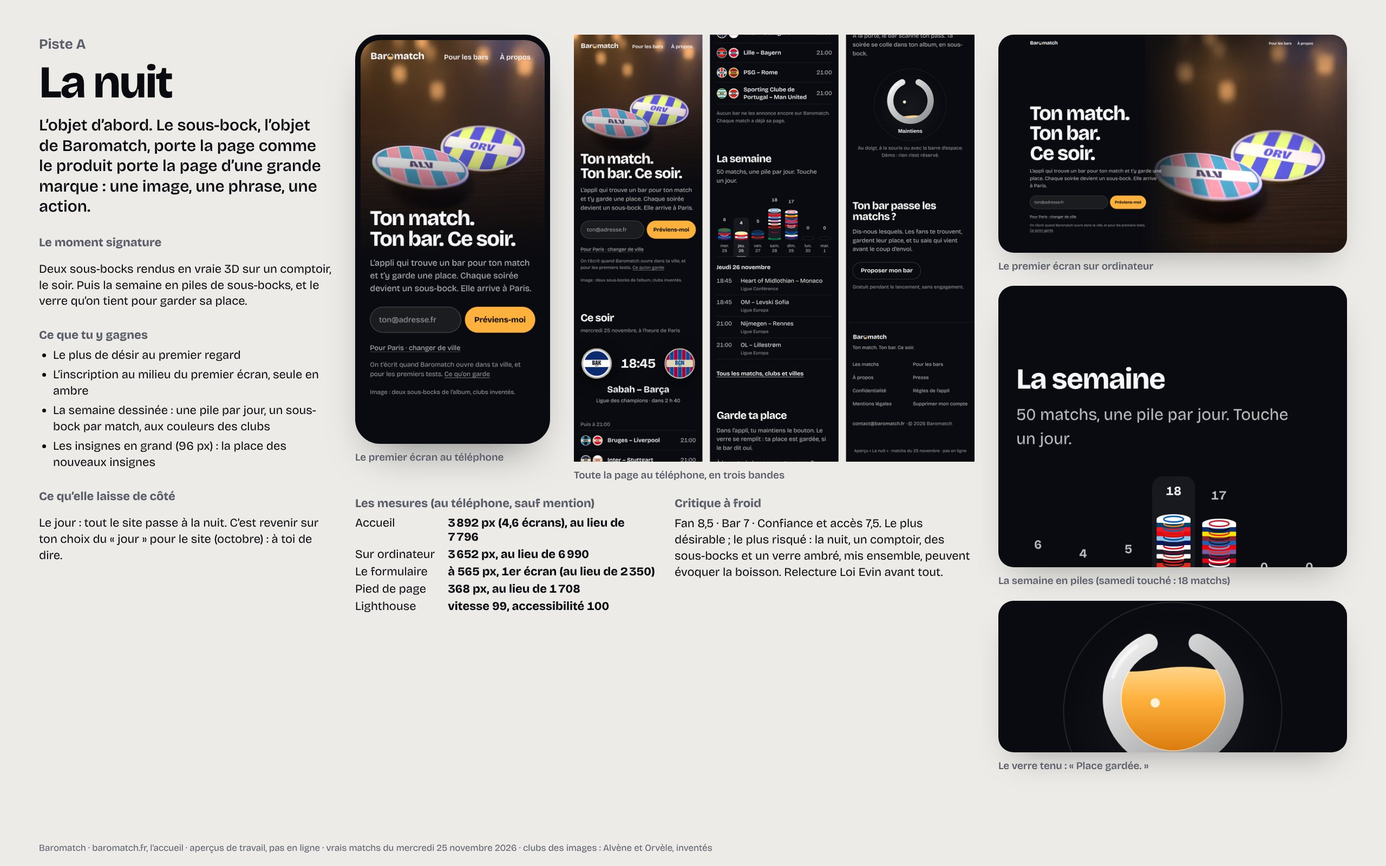
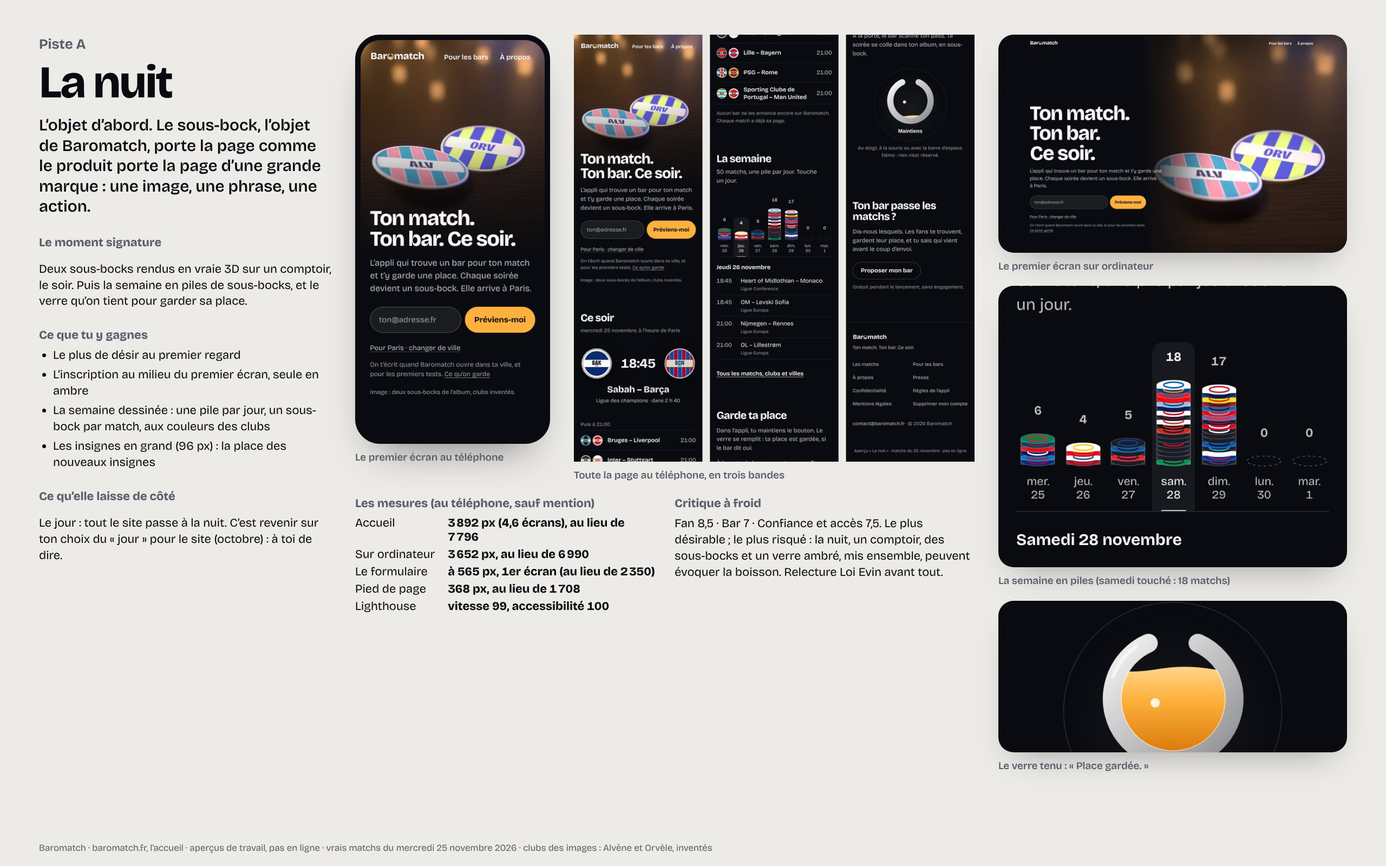
Piste A : chaque sous-bock des piles cerné d'un filet clair (un club sans fiche ne disparaît plus dans la nuit)
La critique à froid des planches a trouvé des couches invisibles dans les piles du samedi : les clubs sans fiche
d'insigne sont à l'encre neutre, presque la couleur de la nuit. Un filet clair à 30 % les rend lisibles ; planche A
refaite.

Vérifié : node preview/outils/construire.mjs -> 3 pages écrites ; capture de la semaine (samedi touché) relue : 18 couches visibles sur 18

Claude-Session: https://claude.ai/code/session_01Ha4274JW7Gvb4djWPyjchQ

Changed region(s): [[0.7188, 0.4062, 0.9375, 0.6562], [0.75, 0.3438, 0.7812, 0.375]]

diff --git a/preview/a-la-nuit/index.html b/preview/a-la-nuit/index.html
@@ -52,7 +52,7 @@
 <h2 class="titre-2" id="titre-semaine">La semaine</h2>
 <p class="chapo chapo--court">50 matchs, une pile par jour. Touche un jour.</p>
 <div class="semaine__choix"><input class="visuellement-cache" type="radio" name="jour" id="a-j0" value="2026-11-25"><input class="visuellement-cache" type="radio" name="jour" id="a-j1" value="2026-11-26" checked><input class="visuellement-cache" type="radio" name="jour" id="a-j2" value="2026-11-27"><input class="visuellement-cache" type="radio" name="jour" id="a-j3" value="2026-11-28"><input class="visuellement-cache" type="radio" name="jour" id="a-j4" value="2026-11-29"><input class="visuellement-cache" type="radio" name="jour" id="a-j5" value="2026-11-30"><input class="visuellement-cache" type="radio" name="jour" id="a-j6" value="2026-12-01">
-<div class="piles" role="presentation"><label class="pile" for="a-j0"><span class="pile__compte">6</span><svg class="pile__tas" width="44" height="50" viewBox="0 0 44 50" aria-hidden="true" focusable="false"><rect x="3" y="40" width="38" height="4" rx="1" fill="#0B2A6F"/><ellipse cx="22" cy="40" rx="19" ry="5.5" fill="#0B2A6F"/><ellipse cx="22" cy="40" rx="11" ry="3.2" fill="none" stroke="#A50044" stroke-width="1.6"/><rect x="3" y="35" width="38" height="4" rx="1" fill="#0078BF"/><ellipse cx="22" cy="35" rx="19" ry="5.5" fill="#0078BF"/><ellipse cx="22" cy="35" rx="11" ry="3.2" fill="none" stroke="#C8102E" stroke-width="1.6"/><rect x="3" y="30" width="38" height="4" rx="1" fill="#0B1560"/><ellipse cx="22" cy="30" rx="19" ry="5.5" fill="#0B1560"/><ellipse cx="22" cy="30" rx="11" ry="3.2" fill="none" stroke="#FFFFFF" stroke-width="1.6"/><rect x="3" y="25" width="38" height="4" rx="1" fill="#E01E13"/><ellipse cx="22" cy="25" rx="19" ry="5.5" fill="#E01E13"/><ellipse cx="22" cy="25" rx="11" ry="3.2" fill="none" stroke="#DC052D" stroke-width="1.6"/><rect x="3" y="20" width="38" height="4" rx="1" fill="#004170"/><ellipse cx="22" cy="20" rx="19" ry="5.5" fill="#004170"/><ellipse cx="22" cy="20" rx="11" ry="3.2" fill="none" stroke="#8E1F2F" stroke-width="1.6"/><rect x="3" y="15" width="38" height="4" rx="1" fill="#008057"/><ellipse cx="22" cy="15" rx="19" ry="5.5" fill="#008057"/><ellipse cx="22" cy="15" rx="11" ry="3.2" fill="none" stroke="#DA291C" stroke-width="1.6"/></svg><span class="pile__jour"><span>mer.</span> <span>25</span></span><span class="visuellement-cache">, 6 matchs</span></label><label class="pile" for="a-j1"><span class="pile__compte">4</span><svg class="pile__tas" width="44" height="40" viewBox="0 0 44 40" aria-hidden="true" focusable="false"><rect x="3" y="30" width="38" height="4" rx="1" fill="#8E1B32"/><ellipse cx="22" cy="30" rx="19" ry="5.5" fill="#8E1B32"/><ellipse cx="22" cy="30" rx="11" ry="3.2" fill="none" stroke="#CE1126" stroke-width="1.6"/><rect x="3" y="25" width="38" height="4" rx="1" fill="#FFFFFF"/><ellipse cx="22" cy="25" rx="19" ry="5.5" fill="#FFFFFF"/><ellipse cx="22" cy="25" rx="11" ry="3.2" fill="none" stroke="#005BAC" stroke-width="1.6"/><rect x="3" y="20" width="38" height="4" rx="1" fill="#E30613"/><ellipse cx="22" cy="20" rx="19" ry="5.5" fill="#E30613"/><ellipse cx="22" cy="20" rx="11" ry="3.2" fill="none" stroke="#E13327" stroke-width="1.6"/><rect x="3" y="15" width="38" height="4" rx="1" fill="#FFFFFF"/><ellipse cx="22" cy="15" rx="19" ry="5.5" fill="#FFFFFF"/><ellipse cx="22" cy="15" rx="11" ry="3.2" fill="none" stroke="#FFD400" stroke-width="1.6"/></svg><span class="pile__jour"><span>jeu.</span> <span>26</span></span><span class="visuellement-cache">, 4 matchs</span></label><label class="pile" for="a-j2"><span class="pile__compte">5</span><svg class="pile__tas" width="44" height="45" viewBox="0 0 44 45" aria-hidden="true" focusable="false"><rect x="3" y="35" width="38" height="4" rx="1" fill="#1B1D27"/><ellipse cx="22" cy="35" rx="19" ry="5.5" fill="#1B1D27"/><ellipse cx="22" cy="35" rx="11" ry="3.2" fill="none" stroke="#1B1D27" stroke-width="1.6"/><rect x="3" y="30" width="38" height="4" rx="1" fill="#ED1C24"/><ellipse cx="22" cy="30" rx="19" ry="5.5" fill="#ED1C24"/><ellipse cx="22" cy="30" rx="11" ry="3.2" fill="none" stroke="#0C183F" stroke-width="1.6"/><rect x="3" y="25" width="38" height="4" rx="1" fill="#1B1D27"/><ellipse cx="22" cy="25" rx="19" ry="5.5" fill="#1B1D27"/><ellipse cx="22" cy="25" rx="11" ry="3.2" fill="none" stroke="#1B1D27" stroke-width="1.6"/><rect x="3" y="20" width="38" height="4" rx="1" fill="#005CA5"/><ellipse cx="22" cy="20" rx="19" ry="5.5" fill="#005CA5"/><ellipse cx="22" cy="20" rx="11" ry="3.2" fill="none" stroke="#1B1D27" stroke-width="1.6"/><rect x="3" y="15" width="38" height="4" rx="1" fill="#1B1D27"/><ellipse cx="22" cy="15" rx="19" ry="5.5" fill="#1B1D27"/><ellipse cx="22" cy="15" rx="11" ry="3.2" fill="none" stroke="#034694" stroke-width="1.6"/></svg><span class="pile__jour"><span>ven.</span> <span>27</span></span><span class="visuellement-cache">, 5 matchs</span></label><label class="pile" for="a-j3"><span class="pile__compte">18</span><svg class="pile__tas" width="44" height="110" viewBox="0 0 44 110" aria-hidden="true" focusable="false"><rect x="3" y="100" width="38" height="4" rx="1" fill="#00954C"/><ellipse cx="22" cy="100" rx="19" ry="5.5" fill="#00954C"/><ellipse cx="22" cy="100" rx="11" ry="3.2" fill="none" stroke="#1B1D27" stroke-width="1.6"/><rect x="3" y="95" width="38" height="4" rx="1" fill="#1B1D27"/><ellipse cx="22" cy="95" rx="19" ry="5.5" fill="#1B1D27"/><ellipse cx="22" cy="95" rx="11" ry="3.2" fill="none" stroke="#1B1D27" stroke-width="1.6"/><rect x="3" y="90" width="38" height="4" rx="1" fill="#1B1D27"/><ellipse cx="22" cy="90" rx="19" ry="5.5" fill="#1B1D27"/><ellipse cx="22" cy="90" rx="11" ry="3.2" fill="none" stroke="#1B1D27" stroke-width="1.6"/><rect x="3" y="85" width="38" height="4" rx="1" fill="#1B1D27"/><ellipse cx="22" cy="85" rx="19" ry="5.5" fill="#1B1D27"/><ellipse cx="22" cy="85" rx="11" ry="3.2" fill="none" stroke="#1B1D27" stroke-width="1.6"/><rect x="3" y="80" width="38" height="4" rx="1" fill="#1B1D27"/><ellipse cx="22" cy="80" rx="19" ry="5.5" fill="#1B1D27"/><ellipse cx="22" cy="80" rx="11" ry="3.2" fill="none" stroke="#DC052D" stroke-width="1.6"/><rect x="3" y="75" width="38" height="4" rx="1" fill="#1B1D27"/><ellipse cx="22" cy="75" rx="19" ry="5.5" fill="#1B1D27"/><ellipse cx="22" cy="75" rx="11" ry="3.2" fill="none" stroke="#1B1D27" stroke-width="1.6"/><rect x="3" y="70" width="38" height="4" rx="1" fill="#1B1D27"/><ellipse cx="22" cy="70" rx="19" ry="5.5" fill="#1B1D27"/><ellipse cx="22" cy="70" rx="11" ry="3.2" fill="none" stroke="#1B1D27" stroke-width="1.6"/><rect x="3" y="65" width="38" height="4" rx="1" fill="#DA291C"/><ellipse cx="22" cy="65" rx="19" ry="5.5" fill="#DA291C"/><ellipse cx="22" cy="65" rx="11" ry="3.2" fill="none" stroke="#1B1D27" stroke-width="1.6"/><rect x="3" y="60" width="38" height="4" rx="1" fill="#111111"/><ellipse cx="22" cy="60" rx="19" ry="5.5" fill="#111111"/><ellipse cx="22" cy="60" rx="11" ry="3.2" fill="none" stroke="#ED1C24" stroke-width="1.6"/><rect x="3" y="55" width="38" height="4" rx="1" fill="#FFFFFF"/><ellipse cx="22" cy="55" rx="19" ry="5.5" fill="#FFFFFF"/><ellipse cx="22" cy="55" rx="11" ry="3.2" fill="none" stroke="#CB3524" stroke-width="1.6"/><rect x="3" y="50" width="38" height="4" rx="1" fill="#1B1D27"/><ellipse cx="22" cy="50" rx="19" ry="5.5" fill="#1B1D27"/><ellipse cx="22" cy="50" rx="11" ry="3.2" fill="none" stroke="#670E36" stroke-width="1.6"/><rect x="3" y="45" width="38" height="4" rx="1" fill="#FFFFFF"/><ellipse cx="22" cy="45" rx="19" ry="5.5" fill="#FFFFFF"/><ellipse cx="22" cy="45" rx="11" ry="3.2" fill="none" stroke="#E1000F" stroke-width="1.6"/><rect x="3" y="40" width="38" height="4" rx="1" fill="#0B1560"/><ellipse cx="22" cy="40" rx="19" ry="5.5" fill="#0B1560"/><ellipse cx="22" cy="40" rx="11" ry="3.2" fill="none" stroke="#1B1D27" stroke-width="1.6"/><rect x="3" y="35" width="38" height="4" rx="1" fill="#8BC4E5"/><ellipse cx="22" cy="35" rx="19" ry="5.5" fill="#8BC4E5"/><ellipse cx="22" cy="35" rx="11" ry="3.2" fill="none" stroke="#004996" stroke-width="1.6"/><rect x="3" y="30" width="38" height="4" rx="1" fill="#E30613"/><ellipse cx="22" cy="30" rx="19" ry="5.5" fill="#E30613"/><ellipse cx="22" cy="30" rx="11" ry="3.2" fill="none" stroke="#E01E13" stroke-width="1.6"/><rect x="3" y="25" width="38" height="4" rx="1" fill="#ED1C24"/><ellipse cx="22" cy="25" rx="19" ry="5.5" fill="#ED1C24"/><ellipse cx="22" cy="25" rx="11" ry="3.2" fill="none" stroke="#006EB2" stroke-width="1.6"/><rect x="3" y="20" width="38" height="4" rx="1" fill="#004170"/><ellipse cx="22" cy="20" rx="19" ry="5.5" fill="#004170"/><ellipse cx="22" cy="20" rx="11" ry="3.2" fill="none" stroke="#F58113" stroke-width="1.6"/><rect x="3" y="15" width="38" height="4" rx="1" fill="#FFFFFF"/><ellipse cx="22" cy="15" rx="19" ry="5.5" fill="#FFFFFF"/><ellipse cx="22" cy="15" rx="11" ry="3.2" fill="none" stroke="#005CB9" stroke-width="1.6"/></svg><span class="pile__jour"><span>sam.</span> <span>28</span></span><span class="visuellement-cache">, 18 matchs</span></label><label class="pile" for="a-j4"><span class="pile__compte">17</span><svg class="pile__tas" width="44" height="105" viewBox="0 0 44 105" aria-hidden="true" focusable="false"><rect x="3" y="95" width="38" height="4" rx="1" fill="#1B1D27"/><ellipse cx="22" cy="95" rx="19" ry="5.5" fill="#1B1D27"/><ellipse cx="22" cy="95" rx="11" ry="3.2" fill="none" stroke="#482E92" stroke-width="1.6"/><rect x="3" y="90" width="38" height="4" rx="1" fill="#003399"/><ellipse cx="22" cy="90" rx="19" ry="5.5" fill="#003399"/><ellipse cx="22" cy="90" rx="11" ry="3.2" fill="none" stroke="#C8102E" stroke-width="1.6"/><rect x="3" y="85" width="38" height="4" rx="1" fill="#FFFFFF"/><ellipse cx="22" cy="85" rx="19" ry="5.5" fill="#FFFFFF"/><ellipse cx="22" cy="85" rx="11" ry="3.2" fill="none" stroke="#FFFFFF" stroke-width="1.6"/><rect x="3" y="80" width="38" height="4" rx="1" fill="#1B1D27"/><ellipse cx="22" cy="80" rx="19" ry="5.5" fill="#1B1D27"/><ellipse cx="22" cy="80" rx="11" ry="3.2" fill="none" stroke="#12A0D7" stroke-width="1.6"/><rect x="3" y="75" width="38" height="4" rx="1" fill="#0057B8"/><ellipse cx="22" cy="75" rx="19" ry="5.5" fill="#0057B8"/><ellipse cx="22" cy="75" rx="11" ry="3.2" fill="none" stroke="#111111" stroke-width="1.6"/><rect x="3" y="70" width="38" height="4" rx="1" fill="#1B1D27"/><ellipse cx="22" cy="70" rx="19" ry="5.5" fill="#1B1D27"/><ellipse cx="22" cy="70" rx="11" ry="3.2" fill="none" stroke="#1B1D27" stroke-width="1.6"/><rect x="3" y="65" width="38" height="4" rx="1" fill="#1B1D27"/><ellipse cx="22" cy="65" rx="19" ry="5.5" fill="#1B1D27"/><ellipse cx="22" cy="65" rx="11" ry="3.2" fill="none" stroke="#1B1D27" stroke-width="1.6"/><rect x="3" y="60" width="38" height="4" rx="1" fill="#1B1D27"/><ellipse cx="22" cy="60" rx="19" ry="5.5" fill="#1B1D27"/><ellipse cx="22" cy="60" rx="11" ry="3.2" fill="none" stroke="#FFFFFF" stroke-width="1.6"/><rect x="3" y="55" width="38" height="4" rx="1" fill="#E2001A"/><ellipse cx="22" cy="55" rx="19" ry="5.5" fill="#E2001A"/><ellipse cx="22" cy="55" rx="11" ry="3.2" fill="none" stroke="#FFFFFF" stroke-width="1.6"/><rect x="3" y="50" width="38" height="4" rx="1" fill="#1B1D27"/><ellipse cx="22" cy="50" rx="19" ry="5.5" fill="#1B1D27"/><ellipse cx="22" cy="50" rx="11" ry="3.2" fill="none" stroke="#A50044" stroke-width="1.6"/><rect x="3" y="45" width="38" height="4" rx="1" fill="#795EA1"/><ellipse cx="22" cy="45" rx="19" ry="5.5" fill="#795EA1"/><ellipse cx="22" cy="45" rx="11" ry="3.2" fill="none" stroke="#E13327" stroke-width="1.6"/><rect x="3" y="40" width="38" height="4" rx="1" fill="#EF0107"/><ellipse cx="22" cy="40" rx="19" ry="5.5" fill="#EF0107"/><ellipse cx="22" cy="40" rx="11" ry="3.2" fill="none" stroke="#6CABDD" stroke-width="1.6"/><rect x="3" y="35" width="38" height="4" rx="1" fill="#1C63B7"/><ellipse cx="22" cy="35" rx="19" ry="5.5" fill="#1C63B7"/><ellipse cx="22" cy="35" rx="11" ry="3.2" fill="none" stroke="#1B1D27" stroke-width="1.6"/><rect x="3" y="30" width="38" height="4" rx="1" fill="#8E1F2F"/><ellipse cx="22" cy="30" rx="19" ry="5.5" fill="#8E1F2F"/><ellipse cx="22" cy="30" rx="11" ry="3.2" fill="none" stroke="#1B1D27" stroke-width="1.6"/><rect x="3" y="25" width="38" height="4" rx="1" fill="#FDE100"/><ellipse cx="22" cy="25" rx="19" ry="5.5" fill="#FDE100"/><ellipse cx="22" cy="25" rx="11" ry="3.2" fill="none" stroke="#E32221" stroke-width="1.6"/><rect x="3" y="20" width="38" height="4" rx="1" fill="#0C2C72"/><ellipse cx="22" cy="20" rx="19" ry="5.5" fill="#0C2C72"/><ellipse cx="22" cy="20" rx="11" ry="3.2" fill="none" stroke="#111111" stroke-width="1.6"/><rect x="3" y="15" width="38" height="4" rx="1" fill="#FFFFFF"/><ellipse cx="22" cy="15" rx="19" ry="5.5" fill="#FFFFFF"/><ellipse cx="22" cy="15" rx="11" ry="3.2" fill="none" stroke="#CE1126" stroke-width="1.6"/></svg><span class="pile__jour"><span>dim.</span> <span>29</span></span><span class="visuellement-cache">, 17 matchs</span></label><label class="pile" for="a-j5"><span class="pile__compte">0</span><svg class="pile__tas" width="44" height="25" viewBox="0 0 44 25" aria-hidden="true" focusable="false"><ellipse cx="22" cy="15" rx="19" ry="5.5" fill="none" stroke="currentColor" stroke-opacity=".35" stroke-dasharray="3 3"/></svg><span class="pile__jour"><span>lun.</span> <span>30</span></span><span class="visuellement-cache">, 0 match</span></label><label class="pile" for="a-j6"><span class="pile__compte">0</span><svg class="pile__tas" width="44" height="25" viewBox="0 0 44 25" aria-hidden="true" focusable="false"><ellipse cx="22" cy="15" rx="19" ry="5.5" fill="none" stroke="currentColor" stroke-opacity=".35" stroke-dasharray="3 3"/></svg><span class="pile__jour"><span>mar.</span> <span>1</span></span><span class="visuellement-cache">, 0 match</span></label></div>
+<div class="piles" role="presentation"><label class="pile" for="a-j0"><span class="pile__compte">6</span><svg class="pile__tas" width="44" height="50" viewBox="0 0 44 50" aria-hidden="true" focusable="false"><rect x="3" y="40" width="38" height="4" rx="1" fill="#0B2A6F" stroke="#F7F7F9" stroke-opacity=".3" stroke-width=".6"/><ellipse cx="22" cy="40" rx="19" ry="5.5" fill="#0B2A6F" stroke="#F7F7F9" stroke-opacity=".3" stroke-width=".6"/><ellipse cx="22" cy="40" rx="11" ry="3.2" fill="none" stroke="#A50044" stroke-width="1.6"/><rect x="3" y="35" width="38" height="4" rx="1" fill="#0078BF" stroke="#F7F7F9" stroke-opacity=".3" stroke-width=".6"/><ellipse cx="22" cy="35" rx="19" ry="5.5" fill="#0078BF" stroke="#F7F7F9" stroke-opacity=".3" stroke-width=".6"/><ellipse cx="22" cy="35" rx="11" ry="3.2" fill="none" stroke="#C8102E" stroke-width="1.6"/><rect x="3" y="30" width="38" height="4" rx="1" fill="#0B1560" stroke="#F7F7F9" stroke-opacity=".3" stroke-width=".6"/><ellipse cx="22" cy="30" rx="19" ry="5.5" fill="#0B1560" stroke="#F7F7F9" stroke-opacity=".3" stroke-width=".6"/><ellipse cx="22" cy="30" rx="11" ry="3.2" fill="none" stroke="#FFFFFF" stroke-width="1.6"/><rect x="3" y="25" width="38" height="4" rx="1" fill="#E01E13" stroke="#F7F7F9" stroke-opacity=".3" stroke-width=".6"/><ellipse cx="22" cy="25" rx="19" ry="5.5" fill="#E01E13" stroke="#F7F7F9" stroke-opacity=".3" stroke-width=".6"/><ellipse cx="22" cy="25" rx="11" ry="3.2" fill="none" stroke="#DC052D" stroke-width="1.6"/><rect x="3" y="20" width="38" height="4" rx="1" fill="#004170" stroke="#F7F7F9" stroke-opacity=".3" stroke-width=".6"/><ellipse cx="22" cy="20" rx="19" ry="5.5" fill="#004170" stroke="#F7F7F9" stroke-opacity=".3" stroke-width=".6"/><ellipse cx="22" cy="20" rx="11" ry="3.2" fill="none" stroke="#8E1F2F" stroke-width="1.6"/><rect x="3" y="15" width="38" height="4" rx="1" fill="#008057" stroke="#F7F7F9" stroke-opacity=".3" stroke-width=".6"/><ellipse cx="22" cy="15" rx="19" ry="5.5" fill="#008057" stroke="#F7F7F9" stroke-opacity=".3" stroke-width=".6"/><ellipse cx="22" cy="15" rx="11" ry="3.2" fill="none" stroke="#DA291C" stroke-width="1.6"/></svg><span class="pile__jour"><span>mer.</span> <span>25</span></span><span class="visuellement-cache">, 6 matchs</span></label><label class="pile" for="a-j1"><span class="pile__compte">4</span><svg class="pile__tas" width="44" height="40" viewBox="0 0 44 40" aria-hidden="true" focusable="false"><rect x="3" y="30" width="38" height="4" rx="1" fill="#8E1B32" stroke="#F7F7F9" stroke-opacity=".3" stroke-width=".6"/><ellipse cx="22" cy="30" rx="19" ry="5.5" fill="#8E1B32" stroke="#F7F7F9" stroke-opacity=".3" stroke-width=".6"/><ellipse cx="22" cy="30" rx="11" ry="3.2" fill="none" stroke="#CE1126" stroke-width="1.6"/><rect x="3" y="25" width="38" height="4" rx="1" fill="#FFFFFF" stroke="#F7F7F9" stroke-opacity=".3" stroke-width=".6"/><ellipse cx="22" cy="25" rx="19" ry="5.5" fill="#FFFFFF" stroke="#F7F7F9" stroke-opacity=".3" stroke-width=".6"/><ellipse cx="22" cy="25" rx="11" ry="3.2" fill="none" stroke="#005BAC" stroke-width="1.6"/><rect x="3" y="20" width="38" height="4" rx="1" fill="#E30613" stroke="#F7F7F9" stroke-opacity=".3" stroke-width=".6"/><ellipse cx="22" cy="20" rx="19" ry="5.5" fill="#E30613" stroke="#F7F7F9" stroke-opacity=".3" stroke-width=".6"/><ellipse cx="22" cy="20" rx="11" ry="3.2" fill="none" stroke="#E13327" stroke-width="1.6"/><rect x="3" y="15" width="38" height="4" rx="1" fill="#FFFFFF" stroke="#F7F7F9" stroke-opacity=".3" stroke-width=".6"/><ellipse cx="22" cy="15" rx="19" ry="5.5" fill="#FFFFFF" stroke="#F7F7F9" stroke-opacity=".3" stroke-width=".6"/><ellipse cx="22" cy="15" rx="11" ry="3.2" fill="none" stroke="#FFD400" stroke-width="1.6"/></svg><span class="pile__jour"><span>jeu.</span> <span>26</span></span><span class="visuellement-cache">, 4 matchs</span></label><label class="pile" for="a-j2"><span class="pile__compte">5</span><svg class="pile__tas" width="44" height="45" viewBox="0 0 44 45" aria-hidden="true" focusable="false"><rect x="3" y="35" width="38" height="4" rx="1" fill="#1B1D27" stroke="#F7F7F9" stroke-opacity=".3" stroke-width=".6"/><ellipse cx="22" cy="35" rx="19" ry="5.5" fill="#1B1D27" stroke="#F7F7F9" stroke-opacity=".3" stroke-width=".6"/><ellipse cx="22" cy="35" rx="11" ry="3.2" fill="none" stroke="#1B1D27" stroke-width="1.6"/><rect x="3" y="30" width="38" height="4" rx="1" fill="#ED1C24" stroke="#F7F7F9" stroke-opacity=".3" stroke-width=".6"/><ellipse cx="22" cy="30" rx="19" ry="5.5" fill="#ED1C24" stroke="#F7F7F9" stroke-opacity=".3" stroke-width=".6"/><ellipse cx="22" cy="30" rx="11" ry="3.2" fill="none" stroke="#0C183F" stroke-width="1.6"/><rect x="3" y="25" width="38" height="4" rx="1" fill="#1B1D27" stroke="#F7F7F9" stroke-opacity=".3" stroke-width=".6"/><ellipse cx="22" cy="25" rx="19" ry="5.5" fill="#1B1D27" stroke="#F7F7F9" stroke-opacity=".3" stroke-width=".6"/><ellipse cx="22" cy="25" rx="11" ry="3.2" fill="none" stroke="#1B1D27" stroke-width="1.6"/><rect x="3" y="20" width="38" height="4" rx="1" fill="#005CA5" stroke="#F7F7F9" stroke-opacity=".3" stroke-width=".6"/><ellipse cx="22" cy="20" rx="19" ry="5.5" fill="#005CA5" stroke="#F7F7F9" stroke-opacity=".3" stroke-width=".6"/><ellipse cx="22" cy="20" rx="11" ry="3.2" fill="none" stroke="#1B1D27" stroke-width="1.6"/><rect x="3" y="15" width="38" height="4" rx="1" fill="#1B1D27" stroke="#F7F7F9" stroke-opacity=".3" stroke-width=".6"/><ellipse cx="22" cy="15" rx="19" ry="5.5" fill="#1B1D27" stroke="#F7F7F9" stroke-opacity=".3" stroke-width=".6"/><ellipse cx="22" cy="15" rx="11" ry="3.2" fill="none" stroke="#034694" stroke-width="1.6"/></svg><span class="pile__jour"><span>ven.</span> <span>27</span></span><span class="visuellement-cache">, 5 matchs</span></label><label class="pile" for="a-j3"><span class="pile__compte">18</span><svg class="pile__tas" width="44" height="110" viewBox="0 0 44 110" aria-hidden="true" focusable="false"><rect x="3" y="100" width="38" height="4" rx="1" fill="#00954C" stroke="#F7F7F9" stroke-opacity=".3" stroke-width=".6"/><ellipse cx="22" cy="100" rx="19" ry="5.5" fill="#00954C" stroke="#F7F7F9" stroke-opacity=".3" stroke-width=".6"/><ellipse cx="22" cy="100" rx="11" ry="3.2" fill="none" stroke="#1B1D27" stroke-width="1.6"/><rect x="3" y="95" width="38" height="4" rx="1" fill="#1B1D27" stroke="#F7F7F9" stroke-opacity=".3" stroke-width=".6"/><ellipse cx="22" cy="95" rx="19" ry="5.5" fill="#1B1D27" stroke="#F7F7F9" stroke-opacity=".3" stroke-width=".6"/><ellipse cx="22" cy="95" rx="11" ry="3.2" fill="none" stroke="#1B1D27" stroke-width="1.6"/><rect x="3" y="90" width="38" height="4" rx="1" fill="#1B1D27" stroke="#F7F7F9" stroke-opacity=".3" stroke-width=".6"/><ellipse cx="22" cy="90" rx="19" ry="5.5" fill="#1B1D27" stroke="#F7F7F9" stroke-opacity=".3" stroke-width=".6"/><ellipse cx="22" cy="90" rx="11" ry="3.2" fill="none" stroke="#1B1D27" stroke-width="1.6"/><rect x="3" y="85" width="38" height="4" rx="1" fill="#1B1D27" stroke="#F7F7F9" stroke-opacity=".3" stroke-width=".6"/><ellipse cx="22" cy="85" rx="19" ry="5.5" fill="#1B1D27" stroke="#F7F7F9" stroke-opacity=".3" stroke-width=".6"/><ellipse cx="22" cy="85" rx="11" ry="3.2" fill="none" stroke="#1B1D27" stroke-width="1.6"/><rect x="3" y="80" width="38" height="4" rx="1" fill="#1B1D27" stroke="#F7F7F9" stroke-opacity=".3" stroke-width=".6"/><ellipse cx="22" cy="80" rx="19" ry="5.5" fill="#1B1D27" stroke="#F7F7F9" stroke-opacity=".3" stroke-width=".6"/><ellipse cx="22" cy="80" rx="11" ry="3.2" fill="none" stroke="#DC052D" stroke-width="1.6"/><rect x="3" y="75" width="38" height="4" rx="1" fill="#1B1D27" stroke="#F7F7F9" stroke-opacity=".3" stroke-width=".6"/><ellipse cx="22" cy="75" rx="19" ry="5.5" fill="#1B1D27" stroke="#F7F7F9" stroke-opacity=".3" stroke-width=".6"/><ellipse cx="22" cy="75" rx="11" ry="3.2" fill="none" stroke="#1B1D27" stroke-width="1.6"/><rect x="3" y="70" width="38" height="4" rx="1" fill="#1B1D27" stroke="#F7F7F9" stroke-opacity=".3" stroke-width=".6"/><ellipse cx="22" cy="70" rx="19" ry="5.5" fill="#1B1D27" stroke="#F7F7F9" stroke-opacity=".3" stroke-width=".6"/><ellipse cx="22" cy="70" rx="11" ry="3.2" fill="none" stroke="#1B1D27" stroke-width="1.6"/><rect x="3" y="65" width="38" height="4" rx="1" fill="#DA291C" stroke="#F7F7F9" stroke-opacity=".3" stroke-width=".6"/><ellipse cx="22" cy="65" rx="19" ry="5.5" fill="#DA291C" stroke="#F7F7F9" stroke-opacity=".3" stroke-width=".6"/><ellipse cx="22" cy="65" rx="11" ry="3.2" fill="none" stroke="#1B1D27" stroke-width="1.6"/><rect x="3" y="60" width="38" height="4" rx="1" fill="#111111" stroke="#F7F7F9" stroke-opacity=".3" stroke-width=".6"/><ellipse cx="22" cy="60" rx="19" ry="5.5" fill="#111111" stroke="#F7F7F9" stroke-opacity=".3" stroke-width=".6"/><ellipse cx="22" cy="60" rx="11" ry="3.2" fill="none" stroke="#ED1C24" stroke-width="1.6"/><rect x="3" y="55" width="38" height="4" rx="1" fill="#FFFFFF" stroke="#F7F7F9" stroke-opacity=".3" stroke-width=".6"/><ellipse cx="22" cy="55" rx="19" ry="5.5" fill="#FFFFFF" stroke="#F7F7F9" stroke-opacity=".3" stroke-width=".6"/><ellipse cx="22" cy="55" rx="11" ry="3.2" fill="none" stroke="#CB3524" stroke-width="1.6"/><rect x="3" y="50" width="38" height="4" rx="1" fill="#1B1D27" stroke="#F7F7F9" stroke-opacity=".3" stroke-width=".6"/><ellipse cx="22" cy="50" rx="19" ry="5.5" fill="#1B1D27" stroke="#F7F7F9" stroke-opacity=".3" stroke-width=".6"/><ellipse cx="22" cy="50" rx="11" ry="3.2" fill="none" stroke="#670E36" stroke-width="1.6"/><rect x="3" y="45" width="38" height="4" rx="1" fill="#FFFFFF" stroke="#F7F7F9" stroke-opacity=".3" stroke-width=".6"/><ellipse cx="22" cy="45" rx="19" ry="5.5" fill="#FFFFFF" stroke="#F7F7F9" stroke-opacity=".3" stroke-width=".6"/><ellipse cx="22" cy="45" rx="11" ry="3.2" fill="none" stroke="#E1000F" stroke-width="1.6"/><rect x="3" y="40" width="38" height="4" rx="1" fill="#0B1560" stroke="#F7F7F9" stroke-opacity=".3" stroke-width=".6"/><ellipse cx="22" cy="40" rx="19" ry="5.5" fill="#0B1560" stroke="#F7F7F9" stroke-opacity=".3" stroke-width=".6"/><ellipse cx="22" cy="40" rx="11" ry="3.2" fill="none" stroke="#1B1D27" stroke-width="1.6"/><rect x="3" y="35" width="38" height="4" rx="1" fill="#8BC4E5" stroke="#F7F7F9" stroke-opacity=".3" stroke-width=".6"/><ellipse cx="22" cy="35" rx="19" ry="5.5" fill="#8BC4E5" stroke="#F7F7F9" stroke-opacity=".3" stroke-width=".6"/><ellipse cx="22" cy="35" rx="11" ry="3.2" fill="none" stroke="#004996" stroke-width="1.6"/><rect x="3" y="30" width="38" height="4" rx="1" fill="#E30613" stroke="#F7F7F9" stroke-opacity=".3" stroke-width=".6"/><ellipse cx="22" cy="30" rx="19" ry="5.5" fill="#E30613" stroke="#F7F7F9" stroke-opacity=".3" stroke-width=".6"/><ellipse cx="22" cy="30" rx="11" ry="3.2" fill="none" stroke="#E01E13" stroke-width="1.6"/><rect x="3" y="25" width="38" height="4" rx="1" fill="#ED1C24" stroke="#F7F7F9" stroke-opacity=".3" stroke-width=".6"/><ellipse cx="22" cy="25" rx="19" ry="5.5" fill="#ED1C24" stroke="#F7F7F9" stroke-opacity=".3" stroke-width=".6"/><ellipse cx="22" cy="25" rx="11" ry="3.2" fill="none" stroke="#006EB2" stroke-width="1.6"/><rect x="3" y="20" width="38" height="4" rx="1" fill="#004170" stroke="#F7F7F9" stroke-opacity=".3" stroke-width=".6"/><ellipse cx="22" cy="20" rx="19" ry="5.5" fill="#004170" stroke="#F7F7F9" stroke-opacity=".3" stroke-width=".6"/><ellipse cx="22" cy="20" rx="11" ry="3.2" fill="none" stroke="#F58113" stroke-width="1.6"/><rect x="3" y="15" width="38" height="4" rx="1" fill="#FFFFFF" stroke="#F7F7F9" stroke-opacity=".3" stroke-width=".6"/><ellipse cx="22" cy="15" rx="19" ry="5.5" fill="#FFFFFF" stroke="#F7F7F9" stroke-opacity=".3" stroke-width=".6"/><ellipse cx="22" cy="15" rx="11" ry="3.2" fill="none" stroke="#005CB9" stroke-width="1.6"/></svg><span class="pile__jour"><span>sam.</span> <span>28</span></span><span class="visuellement-cache">, 18 matchs</span></label><label class="pile" for="a-j4"><span class="pile__compte">17</span><svg class="pile__tas" width="44" height="105" viewBox="0 0 44 105" aria-hidden="true" focusable="false"><rect x="3" y="95" width="38" height="4" rx="1" fill="#1B1D27" stroke="#F7F7F9" stroke-opacity=".3" stroke-width=".6"/><ellipse cx="22" cy="95" rx="19" ry="5.5" fill="#1B1D27" stroke="#F7F7F9" stroke-opacity=".3" stroke-width=".6"/><ellipse cx="22" cy="95" rx="11" ry="3.2" fill="none" stroke="#482E92" stroke-width="1.6"/><rect x="3" y="90" width="38" height="4" rx="1" fill="#003399" stroke="#F7F7F9" stroke-opacity=".3" stroke-width=".6"/><ellipse cx="22" cy="90" rx="19" ry="5.5" fill="#003399" stroke="#F7F7F9" stroke-opacity=".3" stroke-width=".6"/><ellipse cx="22" cy="90" rx="11" ry="3.2" fill="none" stroke="#C8102E" stroke-width="1.6"/><rect x="3" y="85" width="38" height="4" rx="1" fill="#FFFFFF" stroke="#F7F7F9" stroke-opacity=".3" stroke-width=".6"/><ellipse cx="22" cy="85" rx="19" ry="5.5" fill="#FFFFFF" stroke="#F7F7F9" stroke-opacity=".3" stroke-width=".6"/><ellipse cx="22" cy="85" rx="11" ry="3.2" fill="none" stroke="#FFFFFF" stroke-width="1.6"/><rect x="3" y="80" width="38" height="4" rx="1" fill="#1B1D27" stroke="#F7F7F9" stroke-opacity=".3" stroke-width=".6"/><ellipse cx="22" cy="80" rx="19" ry="5.5" fill="#1B1D27" stroke="#F7F7F9" stroke-opacity=".3" stroke-width=".6"/><ellipse cx="22" cy="80" rx="11" ry="3.2" fill="none" stroke="#12A0D7" stroke-width="1.6"/><rect x="3" y="75" width="38" height="4" rx="1" fill="#0057B8" stroke="#F7F7F9" stroke-opacity=".3" stroke-width=".6"/><ellipse cx="22" cy="75" rx="19" ry="5.5" fill="#0057B8" stroke="#F7F7F9" stroke-opacity=".3" stroke-width=".6"/><ellipse cx="22" cy="75" rx="11" ry="3.2" fill="none" stroke="#111111" stroke-width="1.6"/><rect x="3" y="70" width="38" height="4" rx="1" fill="#1B1D27" stroke="#F7F7F9" stroke-opacity=".3" stroke-width=".6"/><ellipse cx="22" cy="70" rx="19" ry="5.5" fill="#1B1D27" stroke="#F7F7F9" stroke-opacity=".3" stroke-width=".6"/><ellipse cx="22" cy="70" rx="11" ry="3.2" fill="none" stroke="#1B1D27" stroke-width="1.6"/><rect x="3" y="65" width="38" height="4" rx="1" fill="#1B1D27" stroke="#F7F7F9" stroke-opacity=".3" stroke-width=".6"/><ellipse cx="22" cy="65" rx="19" ry="5.5" fill="#1B1D27" stroke="#F7F7F9" stroke-opacity=".3" stroke-width=".6"/><ellipse cx="22" cy="65" rx="11" ry="3.2" fill="none" stroke="#1B1D27" stroke-width="1.6"/><rect x="3" y="60" width="38" height="4" rx="1" fill="#1B1D27" stroke="#F7F7F9" stroke-opacity=".3" stroke-width=".6"/><ellipse cx="22" cy="60" rx="19" ry="5.5" fill="#1B1D27" stroke="#F7F7F9" stroke-opacity=".3" stroke-width=".6"/><ellipse cx="22" cy="60" rx="11" ry="3.2" fill="none" stroke="#FFFFFF" stroke-width="1.6"/><rect x="3" y="55" width="38" height="4" rx="1" fill="#E2001A" stroke="#F7F7F9" stroke-opacity=".3" stroke-width=".6"/><ellipse cx="22" cy="55" rx="19" ry="5.5" fill="#E2001A" stroke="#F7F7F9" stroke-opacity=".3" stroke-width=".6"/><ellipse cx="22" cy="55" rx="11" ry="3.2" fill="none" stroke="#FFFFFF" stroke-width="1.6"/><rect x="3" y="50" width="38" height="4" rx="1" fill="#1B1D27" stroke="#F7F7F9" stroke-opacity=".3" stroke-width=".6"/><ellipse cx="22" cy="50" rx="19" ry="5.5" fill="#1B1D27" stroke="#F7F7F9" stroke-opacity=".3" stroke-width=".6"/><ellipse cx="22" cy="50" rx="11" ry="3.2" fill="none" stroke="#A50044" stroke-width="1.6"/><rect x="3" y="45" width="38" height="4" rx="1" fill="#795EA1" stroke="#F7F7F9" stroke-opacity=".3" stroke-width=".6"/><ellipse cx="22" cy="45" rx="19" ry="5.5" fill="#795EA1" stroke="#F7F7F9" stroke-opacity=".3" stroke-width=".6"/><ellipse cx="22" cy="45" rx="11" ry="3.2" fill="none" stroke="#E13327" stroke-width="1.6"/><rect x="3" y="40" width="38" height="4" rx="1" fill="#EF0107" stroke="#F7F7F9" stroke-opacity=".3" stroke-width=".6"/><ellipse cx="22" cy="40" rx="19" ry="5.5" fill="#EF0107" stroke="#F7F7F9" stroke-opacity=".3" stroke-width=".6"/><ellipse cx="22" cy="40" rx="11" ry="3.2" fill="none" stroke="#6CABDD" stroke-width="1.6"/><rect x="3" y="35" width="38" height="4" rx="1" fill="#1C63B7" stroke="#F7F7F9" stroke-opacity=".3" stroke-width=".6"/><ellipse cx="22" cy="35" rx="19" ry="5.5" fill="#1C63B7" stroke="#F7F7F9" stroke-opacity=".3" stroke-width=".6"/><ellipse cx="22" cy="35" rx="11" ry="3.2" fill="none" stroke="#1B1D27" stroke-width="1.6"/><rect x="3" y="30" width="38" height="4" rx="1" fill="#8E1F2F" stroke="#F7F7F9" stroke-opacity=".3" stroke-width=".6"/><ellipse cx="22" cy="30" rx="19" ry="5.5" fill="#8E1F2F" stroke="#F7F7F9" stroke-opacity=".3" stroke-width=".6"/><ellipse cx="22" cy="30" rx="11" ry="3.2" fill="none" stroke="#1B1D27" stroke-width="1.6"/><rect x="3" y="25" width="38" height="4" rx="1" fill="#FDE100" stroke="#F7F7F9" stroke-opacity=".3" stroke-width=".6"/><ellipse cx="22" cy="25" rx="19" ry="5.5" fill="#FDE100" stroke="#F7F7F9" stroke-opacity=".3" stroke-width=".6"/><ellipse cx="22" cy="25" rx="11" ry="3.2" fill="none" stroke="#E32221" stroke-width="1.6"/><rect x="3" y="20" width="38" height="4" rx="1" fill="#0C2C72" stroke="#F7F7F9" stroke-opacity=".3" stroke-width=".6"/><ellipse cx="22" cy="20" rx="19" ry="5.5" fill="#0C2C72" stroke="#F7F7F9" stroke-opacity=".3" stroke-width=".6"/><ellipse cx="22" cy="20" rx="11" ry="3.2" fill="none" stroke="#111111" stroke-width="1.6"/><rect x="3" y="15" width="38" height="4" rx="1" fill="#FFFFFF" stroke="#F7F7F9" stroke-opacity=".3" stroke-width=".6"/><ellipse cx="22" cy="15" rx="19" ry="5.5" fill="#FFFFFF" stroke="#F7F7F9" stroke-opacity=".3" stroke-width=".6"/><ellipse cx="22" cy="15" rx="11" ry="3.2" fill="none" stroke="#CE1126" stroke-width="1.6"/></svg><span class="pile__jour"><span>dim.</span> <span>29</span></span><span class="visuellement-cache">, 17 matchs</span></label><label class="pile" for="a-j5"><span class="pile__compte">0</span><svg class="pile__tas" width="44" height="25" viewBox="0 0 44 25" aria-hidden="true" focusable="false"><ellipse cx="22" cy="15" rx="19" ry="5.5" fill="none" stroke="currentColor" stroke-opacity=".35" stroke-dasharray="3 3"/></svg><span class="pile__jour"><span>lun.</span> <span>30</span></span><span class="visuellement-cache">, 0 match</span></label><label class="pile" for="a-j6"><span class="pile__compte">0</span><svg class="pile__tas" width="44" height="25" viewBox="0 0 44 25" aria-hidden="true" focusable="false"><ellipse cx="22" cy="15" rx="19" ry="5.5" fill="none" stroke="currentColor" stroke-opacity=".35" stroke-dasharray="3 3"/></svg><span class="pile__jour"><span>mar.</span> <span>1</span></span><span class="visuellement-cache">, 0 match</span></label></div>
 <div class="jours"><div class="jour" id="a-jour-0"><p class="jour__titre">mercredi 25 novembre</p><ul class="jour__liste"><li><a href="/matchs/sabah-barca-2026-11-25/"><span class="jour__heure">18:45</span><span>Sabah – Barça</span><span class="jour__compet">Ligue des champions</span></a></li><li><a href="/matchs/bruges-liverpool-2026-11-25/"><span class="jour__heure">21:00</span><span>Bruges – Liverpool</span><span class="jour__compet">Ligue des champions</span></a></li><li><a href="/matchs/inter-stuttgart-2026-11-25/"><span class="jour__heure">21:00</span><span>Inter – Stuttgart</span><span class="jour__compet">Ligue des champions</span></a></li><li><a href="/matchs/lille-bayern-2026-11-25/"><span class="jour__heure">21:00</span><span>Lille – Bayern</span><span class="jour__compet">Ligue des champions</span></a></li><li><a href="/matchs/psg-rome-2026-11-25/"><span class="jour__heure">21:00</span><span>PSG – Rome</span><span class="jour__compet">Ligue des champions</span></a></li><li><a href="/matchs/sporting-clube-de-portugal-man-united-2026-11-25/"><span class="jour__heure">21:00</span><span>Sporting Clube de Portugal – Man United</span><span class="jour__compet">Ligue des champions</span></a></li></ul></div><div class="jour" id="a-jour-1"><p class="jour__titre">jeudi 26 novembre</p><ul class="jour__liste"><li><a href="/matchs/heart-of-midlothian-monaco-2026-11-26/"><span class="jour__heure">18:45</span><span>Heart of Midlothian – Monaco</span><span class="jour__compet">Ligue Conférence</span></a></li><li><a href="/matchs/om-levski-sofia-2026-11-26/"><span class="jour__heure">18:45</span><span>OM – Levski Sofia</span><span class="jour__compet">Ligue Europa</span></a></li><li><a href="/matchs/nijmegen-rennes-2026-11-26/"><span class="jour__heure">21:00</span><span>Nijmegen – Rennes</span><span class="jour__compet">Ligue Europa</span></a></li><li><a href="/matchs/ol-lillestrom-2026-11-26/"><span class="jour__heure">21:00</span><span>OL – Lillestrøm</span><span class="jour__compet">Ligue Europa</span></a></li></ul></div><div class="jour" id="a-jour-2"><p class="jour__titre">vendredi 27 novembre</p><ul class="jour__liste"><li><a href="/matchs/werder-bremen-borussia-monchengladbach-2026-11-27/"><span class="jour__heure">20:30</span><span>Werder Bremen – Borussia Mönchengladbach</span><span class="jour__compet">Bundesliga</span></a></li><li><a href="/matchs/brest-paris-fc-2026-11-27/"><span class="jour__heure">20:45</span><span>Brest – Paris FC</span><span class="jour__compet">Ligue 1</span></a></li><li><a href="/matchs/venezia-bologna-1909-2026-11-27/"><span class="jour__heure">20:45</span><span>Venezia – Bologna 1909</span><span class="jour__compet">Serie A</span></a></li><li><a href="/matchs/levante-real-racing-club-de-santander-2026-11-27/"><span class="jour__heure">21:00</span><span>Levante – Real Racing Club de Santander</span><span class="jour__compet">LaLiga</span></a></li><li><a href="/matchs/nottingham-forest-chelsea-2026-11-27/"><span class="jour__heure">21:00</span><span>Nottingham Forest – Chelsea</span><span class="jour__compet">Premier League</span></a></li></ul></div><div class="jour" id="a-jour-3"><p class="jour__titre">samedi 28 novembre</p><ul class="jour__liste"><li><a href="/matchs/betis-rayo-vallecano-2026-11-28/"><span class="jour__heure">14:00</span><span>Betis – Rayo Vallecano</span><span class="jour__compet">LaLiga</span></a></li><li><a href="/matchs/frosinone-calcio-parma-calcio-1913-2026-11-28/"><span class="jour__heure">15:00</span><span>Frosinone Calcio – Parma Calcio 1913</span><span class="jour__compet">Serie A</span></a></li><li><a href="/matchs/1-koln-07-elversberg-2026-11-28/"><span class="jour__heure">15:30</span><span>1. Köln – 07 Elversberg</span><span class="jour__compet">Bundesliga</span></a></li><li><a href="/matchs/1-mainz-05-1-union-berlin-2026-11-28/"><span class="jour__heure">15:30</span><span>1. Mainz 05 – 1. Union Berlin</span><span class="jour__compet">Bundesliga</span></a></li><li><a href="/matchs/hamburger-bayern-2026-11-28/"><span class="jour__heure">15:30</span><span>Hamburger – Bayern</span><span class="jour__compet">Bundesliga</span></a></li><li><a href="/matchs/paderborn-07-schalke-04-2026-11-28/"><span class="jour__heure">15:30</span><span>Paderborn 07 – Schalke 04</span><span class="jour__compet">Bundesliga</span></a></li><li><a href="/matchs/leeds-united-coventry-city-2026-11-28/"><span class="jour__heure">16:00</span><span>Leeds United – Coventry City</span><span class="jour__compet">Premier League</span></a></li><li><a href="/matchs/man-united-brentford-2026-11-28/"><span class="jour__heure">16:00</span><span>Man United – Brentford</span><span class="jour__compet">Premier League</span></a></li><li><a href="/matchs/angers-lens-2026-11-28/"><span class="jour__heure">17:15</span><span>Angers – Lens</span><span class="jour__compet">Ligue 1</span></a></li><li><a href="/matchs/elche-atletico-2026-11-28/"><span class="jour__heure">18:30</span><span>Elche – Atlético</span><span class="jour__compet">LaLiga</span></a></li><li><a href="/matchs/ipswich-town-aston-villa-2026-11-28/"><span class="jour__heure">18:30</span><span>Ipswich Town – Aston Villa</span><span class="jour__compet">Premier League</span></a></li><li><a href="/matchs/stuttgart-francfort-2026-11-28/"><span class="jour__heure">18:30</span><span>Stuttgart – Francfort</span><span class="jour__compet">Bundesliga</span></a></li><li><a href="/matchs/inter-genoa-2026-11-28/"><span class="jour__heure">20:45</span><span>Inter – Genoa</span><span class="jour__compet">Serie A</span></a></li><li><a href="/matchs/le-havre-strasbourg-2026-11-28/"><span class="jour__heure">20:45</span><span>Le Havre – Strasbourg</span><span class="jour__compet">Ligue 1</span></a></li><li><a href="/matchs/le-mans-lille-2026-11-28/"><span class="jour__heure">20:45</span><span>Le Mans – Lille</span><span class="jour__compet">Ligue 1</span></a></li><li><a href="/matchs/nice-troyes-2026-11-28/"><span class="jour__heure">20:45</span><span>Nice – Troyes</span><span class="jour__compet">Ligue 1</span></a></li><li><a href="/matchs/psg-lorient-2026-11-28/"><span class="jour__heure">20:45</span><span>PSG – Lorient</span><span class="jour__compet">Ligue 1</span></a></li><li><a href="/matchs/real-madrid-deportivo-alaves-2026-11-28/"><span class="jour__heure">21:00</span><span>Real Madrid – Deportivo Alavés</span><span class="jour__compet">LaLiga</span></a></li></ul></div><div class="jour" id="a-jour-4"><p class="jour__titre">dimanche 29 novembre</p><ul class="jour__liste"><li><a href="/matchs/udinese-calcio-fiorentina-2026-11-29/"><span class="jour__heure">12:30</span><span>Udinese Calcio – Fiorentina</span><span class="jour__compet">Serie A</span></a></li><li><a href="/matchs/everton-liverpool-2026-11-29/"><span class="jour__heure">13:00</span><span>Everton – Liverpool</span><span class="jour__compet">Premier League</span></a></li><li><a href="/matchs/auxerre-om-2026-11-29/"><span class="jour__heure">15:00</span><span>Auxerre – OM</span><span class="jour__compet">Ligue 1</span></a></li><li><a href="/matchs/sassuolo-calcio-naples-2026-11-29/"><span class="jour__heure">15:00</span><span>Sassuolo Calcio – Naples</span><span class="jour__compet">Serie A</span></a></li><li><a href="/matchs/brighton-hove-albion-newcastle-2026-11-29/"><span class="jour__heure">15:05</span><span>Brighton &amp; Hove Albion – Newcastle</span><span class="jour__compet">Premier League</span></a></li><li><a href="/matchs/crystal-palace-hull-city-2026-11-29/"><span class="jour__heure">15:05</span><span>Crystal Palace – Hull City</span><span class="jour__compet">Premier League</span></a></li><li><a href="/matchs/fulham-bournemouth-2026-11-29/"><span class="jour__heure">15:05</span><span>Fulham – Bournemouth</span><span class="jour__compet">Premier League</span></a></li><li><a href="/matchs/sunderland-tottenham-2026-11-29/"><span class="jour__heure">15:05</span><span>Sunderland – Tottenham</span><span class="jour__compet">Premier League</span></a></li><li><a href="/matchs/fribourg-leipzig-2026-11-29/"><span class="jour__heure">15:30</span><span>Fribourg – Leipzig</span><span class="jour__compet">Bundesliga</span></a></li><li><a href="/matchs/deportivo-de-coruna-barca-2026-11-29/"><span class="jour__heure">16:15</span><span>Deportivo de Coruña – Barça</span><span class="jour__compet">LaLiga</span></a></li><li><a href="/matchs/toulouse-rennes-2026-11-29/"><span class="jour__heure">17:15</span><span>Toulouse – Rennes</span><span class="jour__compet">Ligue 1</span></a></li><li><a href="/matchs/arsenal-man-city-2026-11-29/"><span class="jour__heure">17:30</span><span>Arsenal – Man City</span><span class="jour__compet">Premier League</span></a></li><li><a href="/matchs/hoffenheim-augsburg-2026-11-29/"><span class="jour__heure">17:30</span><span>Hoffenheim – Augsburg</span><span class="jour__compet">Bundesliga</span></a></li><li><a href="/matchs/rome-monza-2026-11-29/"><span class="jour__heure">18:00</span><span>Rome – Monza</span><span class="jour__compet">Serie A</span></a></li><li><a href="/matchs/dortmund-leverkusen-2026-11-29/"><span class="jour__heure">19:30</span><span>Dortmund – Leverkusen</span><span class="jour__compet">Bundesliga</span></a></li><li><a href="/matchs/como-1907-juventus-2026-11-29/"><span class="jour__heure">20:45</span><span>Como 1907 – Juventus</span><span class="jour__compet">Serie A</span></a></li><li><a href="/matchs/ol-monaco-2026-11-29/"><span class="jour__heure">20:45</span><span>OL – Monaco</span><span class="jour__compet">Ligue 1</span></a></li></ul></div><div class="jour" id="a-jour-5"><p class="jour__titre">lundi 30 novembre</p><p class="jour__vide">Pas de match annoncé ce jour-là.</p></div><div class="jour" id="a-jour-6"><p class="jour__titre">mardi 1er décembre</p><p class="jour__vide">Pas de match annoncé ce jour-là.</p></div></div>
 </div>
 <p class="semaine__tout"><a href="/matchs/">Tous les matchs, clubs et villes</a></p>
